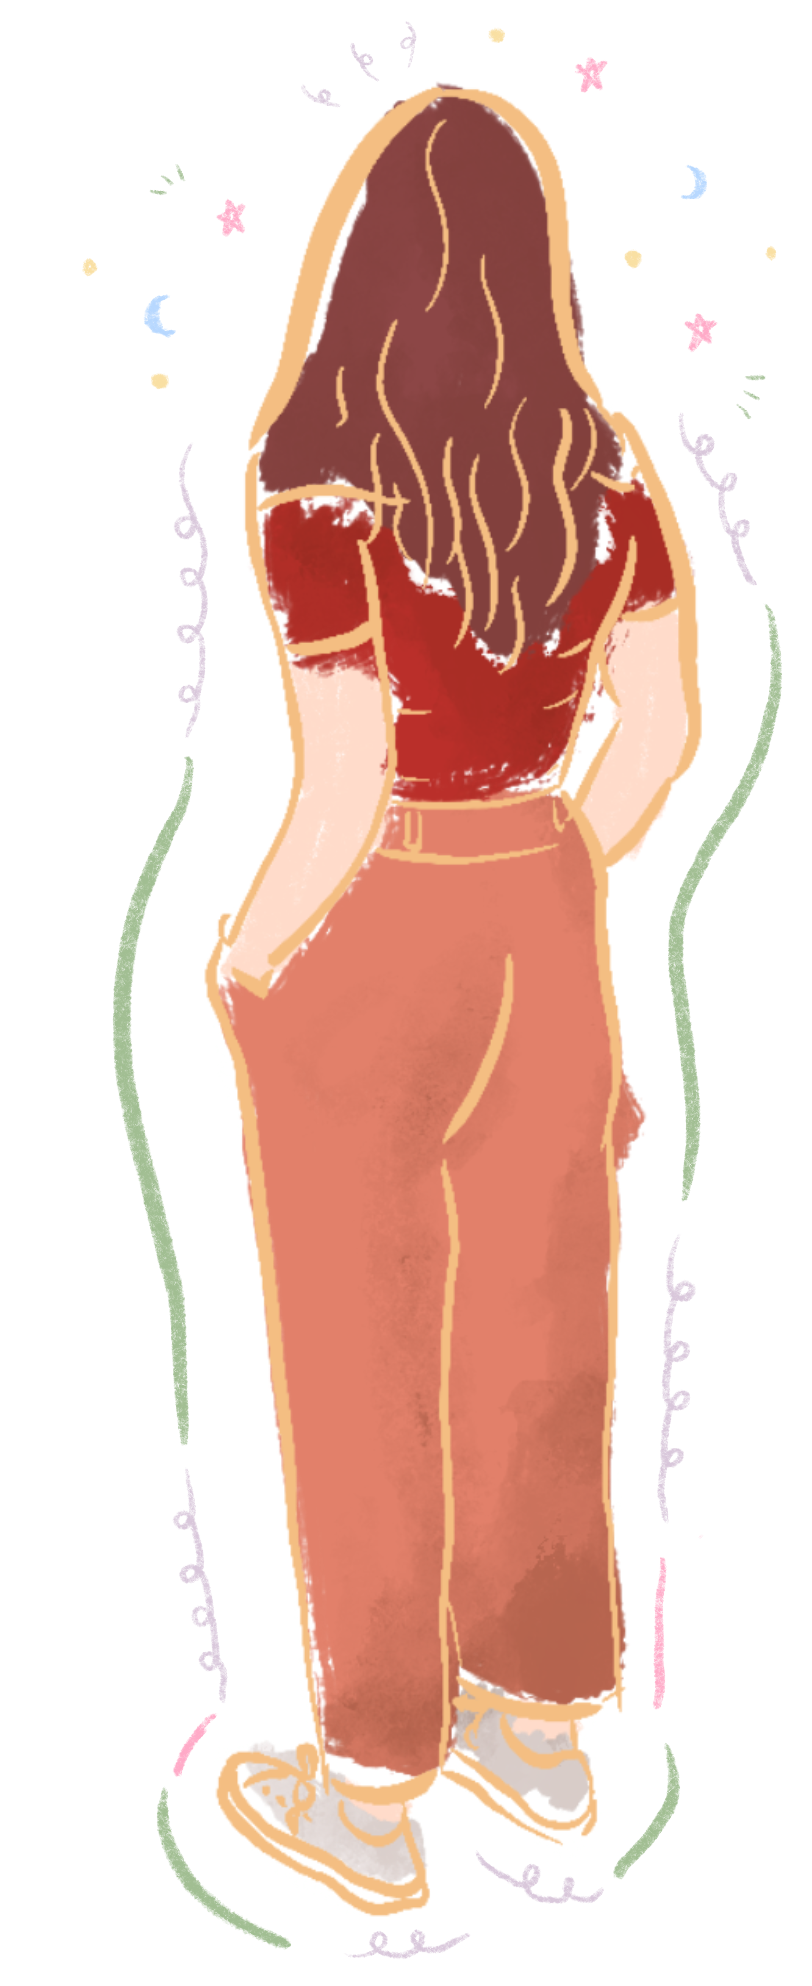
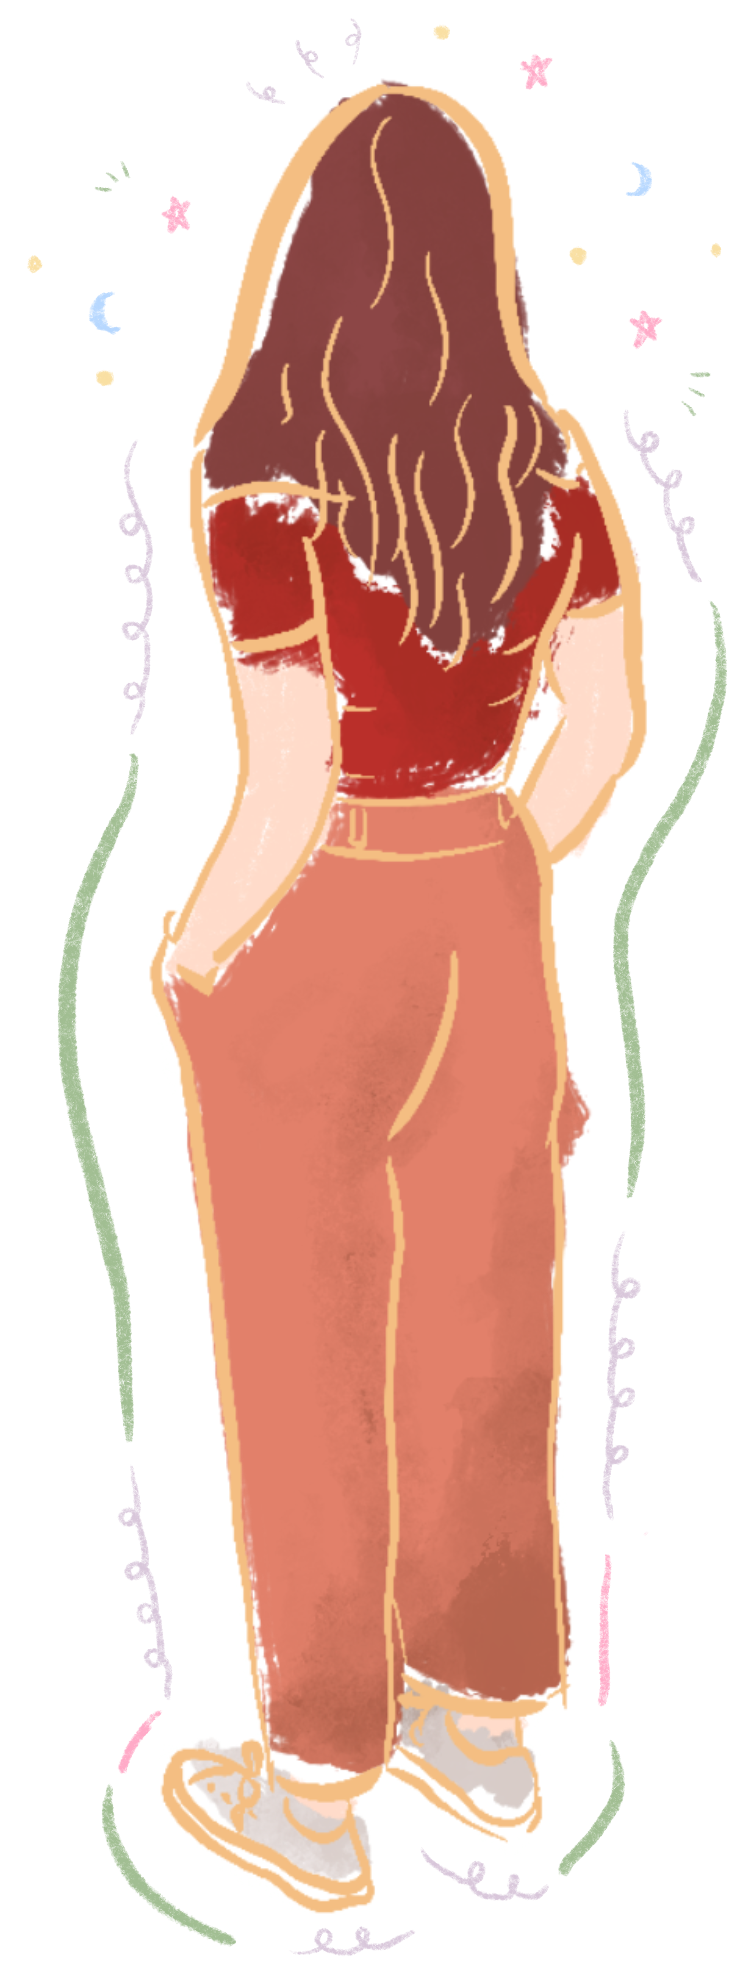
better image scaling for about page

diff --git a/about/index.html b/about/index.html
@@ -117,8 +117,8 @@
       </div>
     </div>
     <div class="col-lg-4">
-      <div class="content-column-content">
-        <img src="/img/michelle_about.png" height=1000px>
+      <div class="image-column-content">
+        <img src="/img/michelle_about.png">
       </div>
     </div>
   </div>
@@ -184,6 +184,28 @@
     content: '\f105';
     margin: 0 5px 0 -15px;
     color: #cfc0cf;
+  }
+  .image-column-content {
+    padding-left: 20px;
+    padding-right: 20px;
+    padding-bottom: 20px;
+  }
+  @media (min-width: 1200px) {
+    .image-column-content {
+      padding-left: 0px;
+      padding-right: 40px;
+    }
+  }
+  .col-lg-4 {
+    padding-left: 0px;
+  }
+  .img-responsive {
+    max-width: 70%;
+  }
+  @media (max-width: 1200px) {
+    .img-responsive {
+      max-width: 45%;
+    }
   }
 </style>
 
